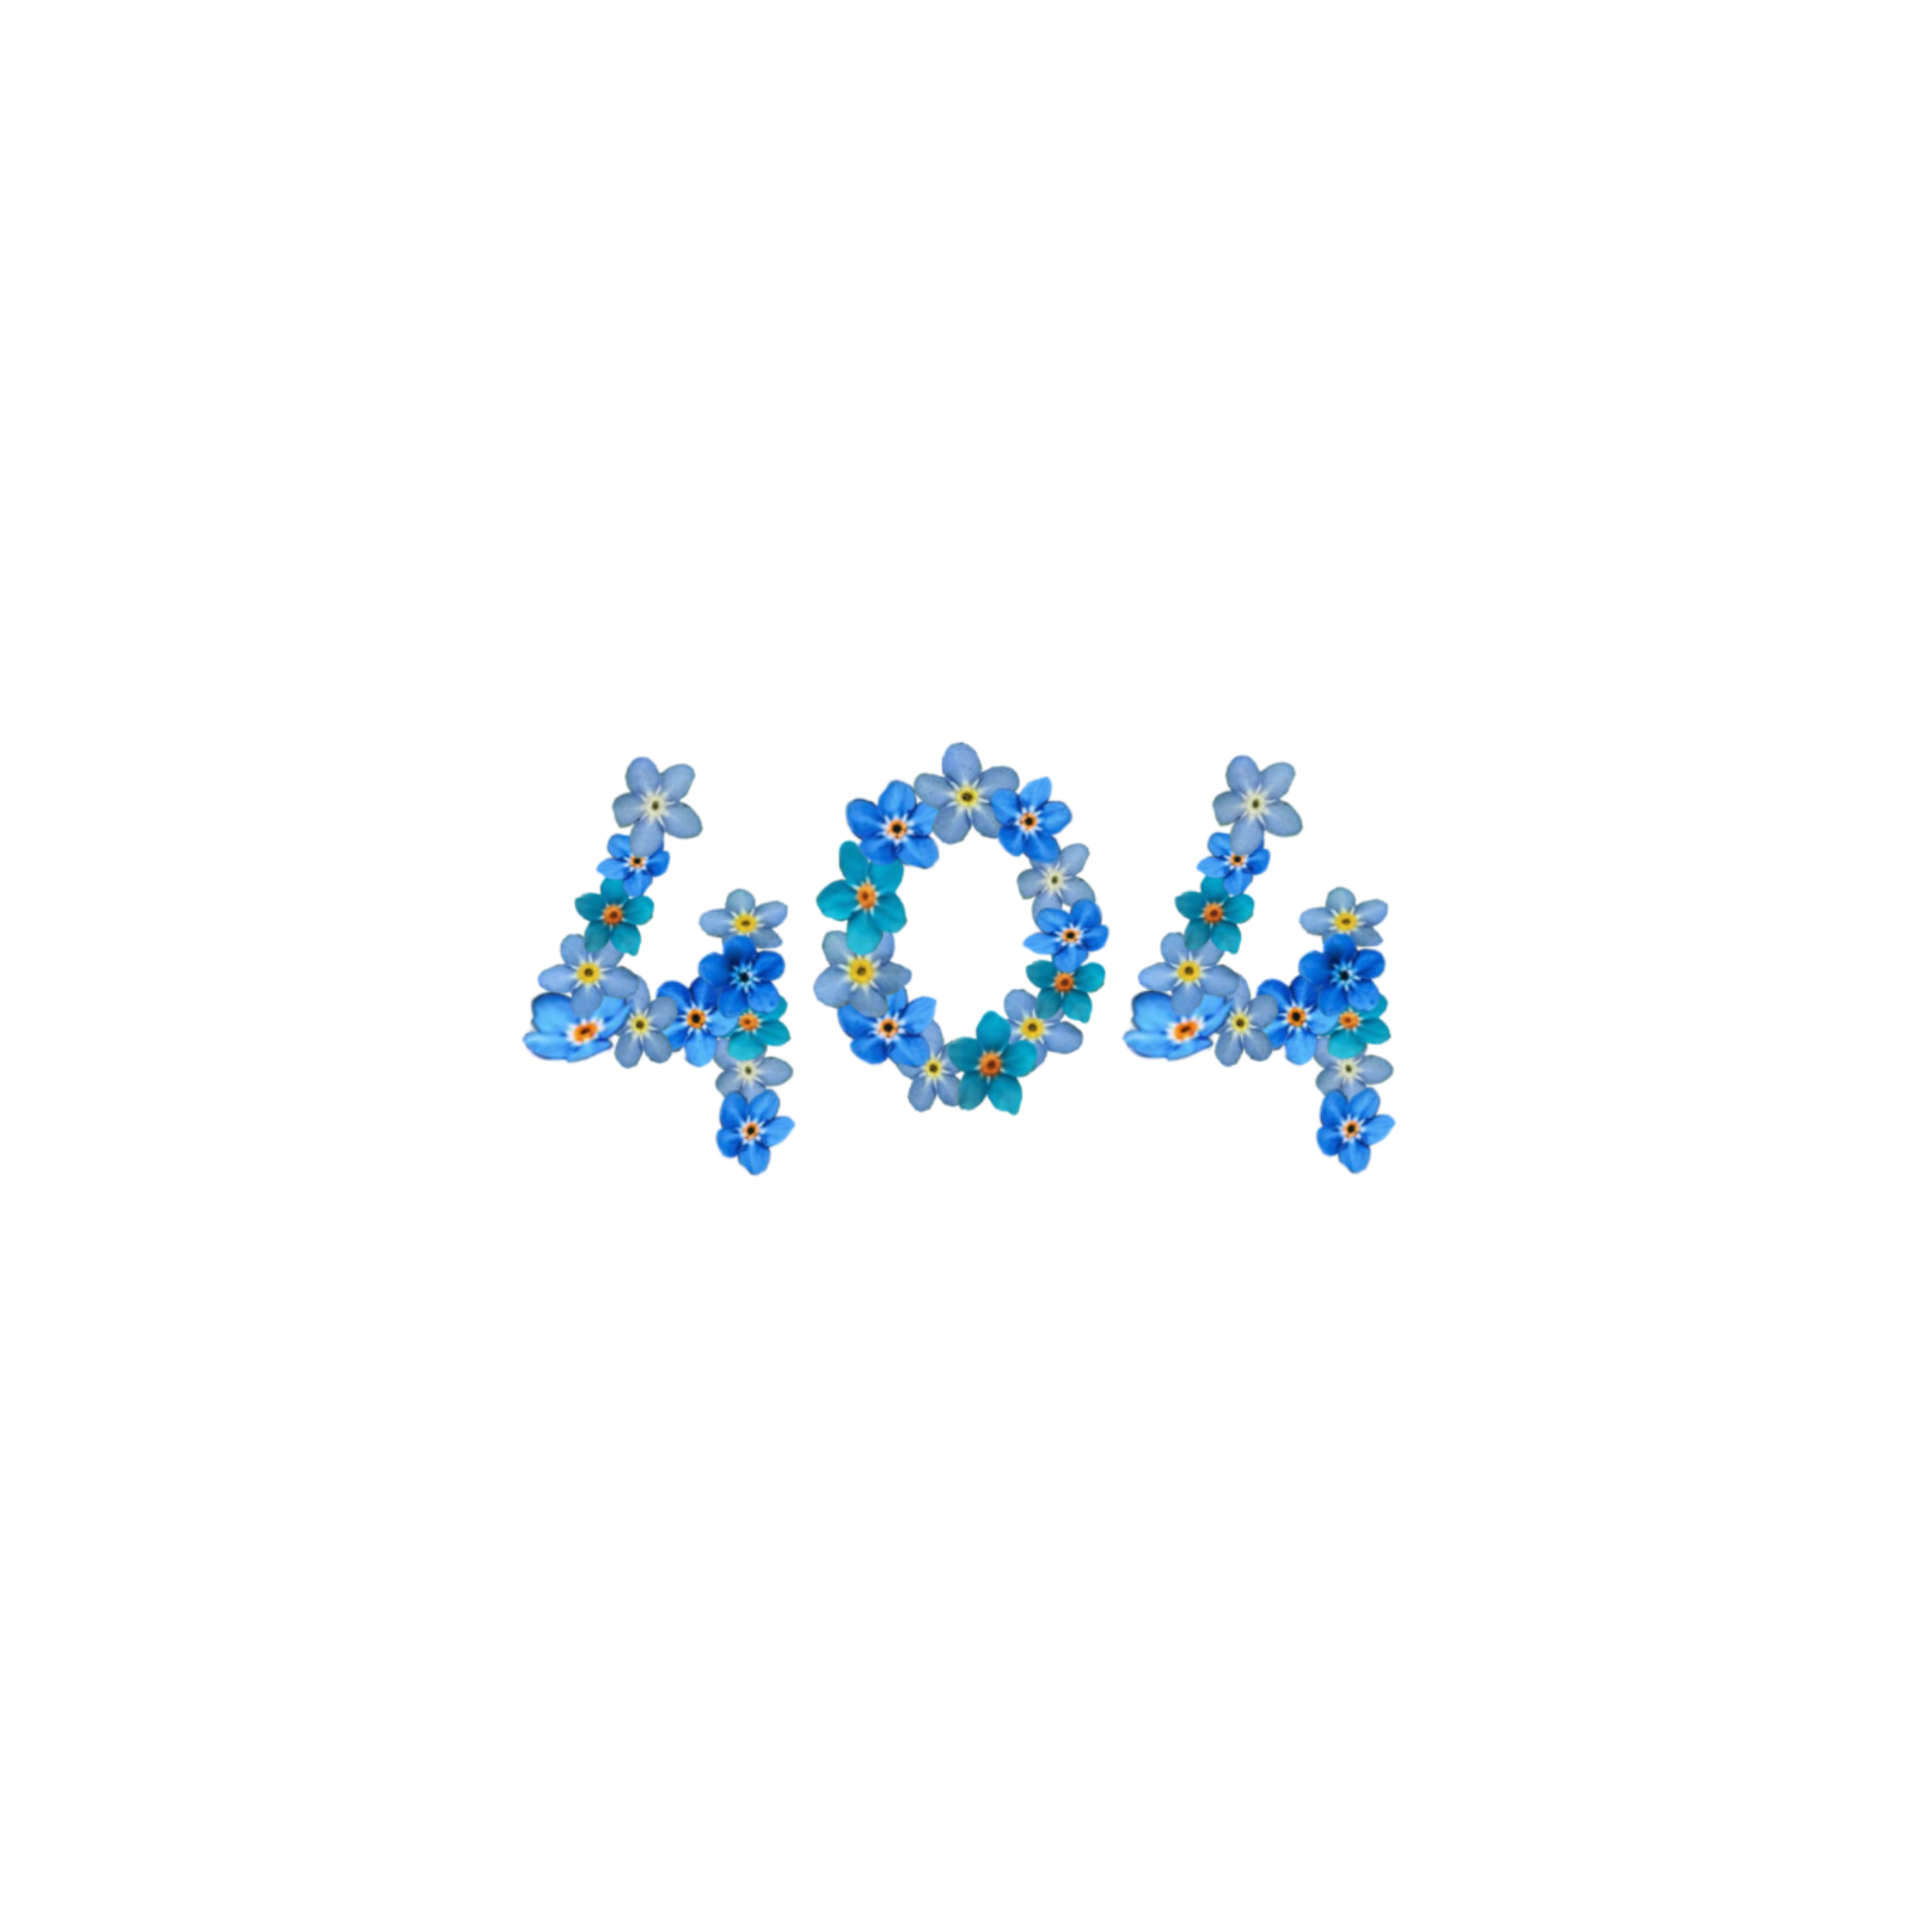
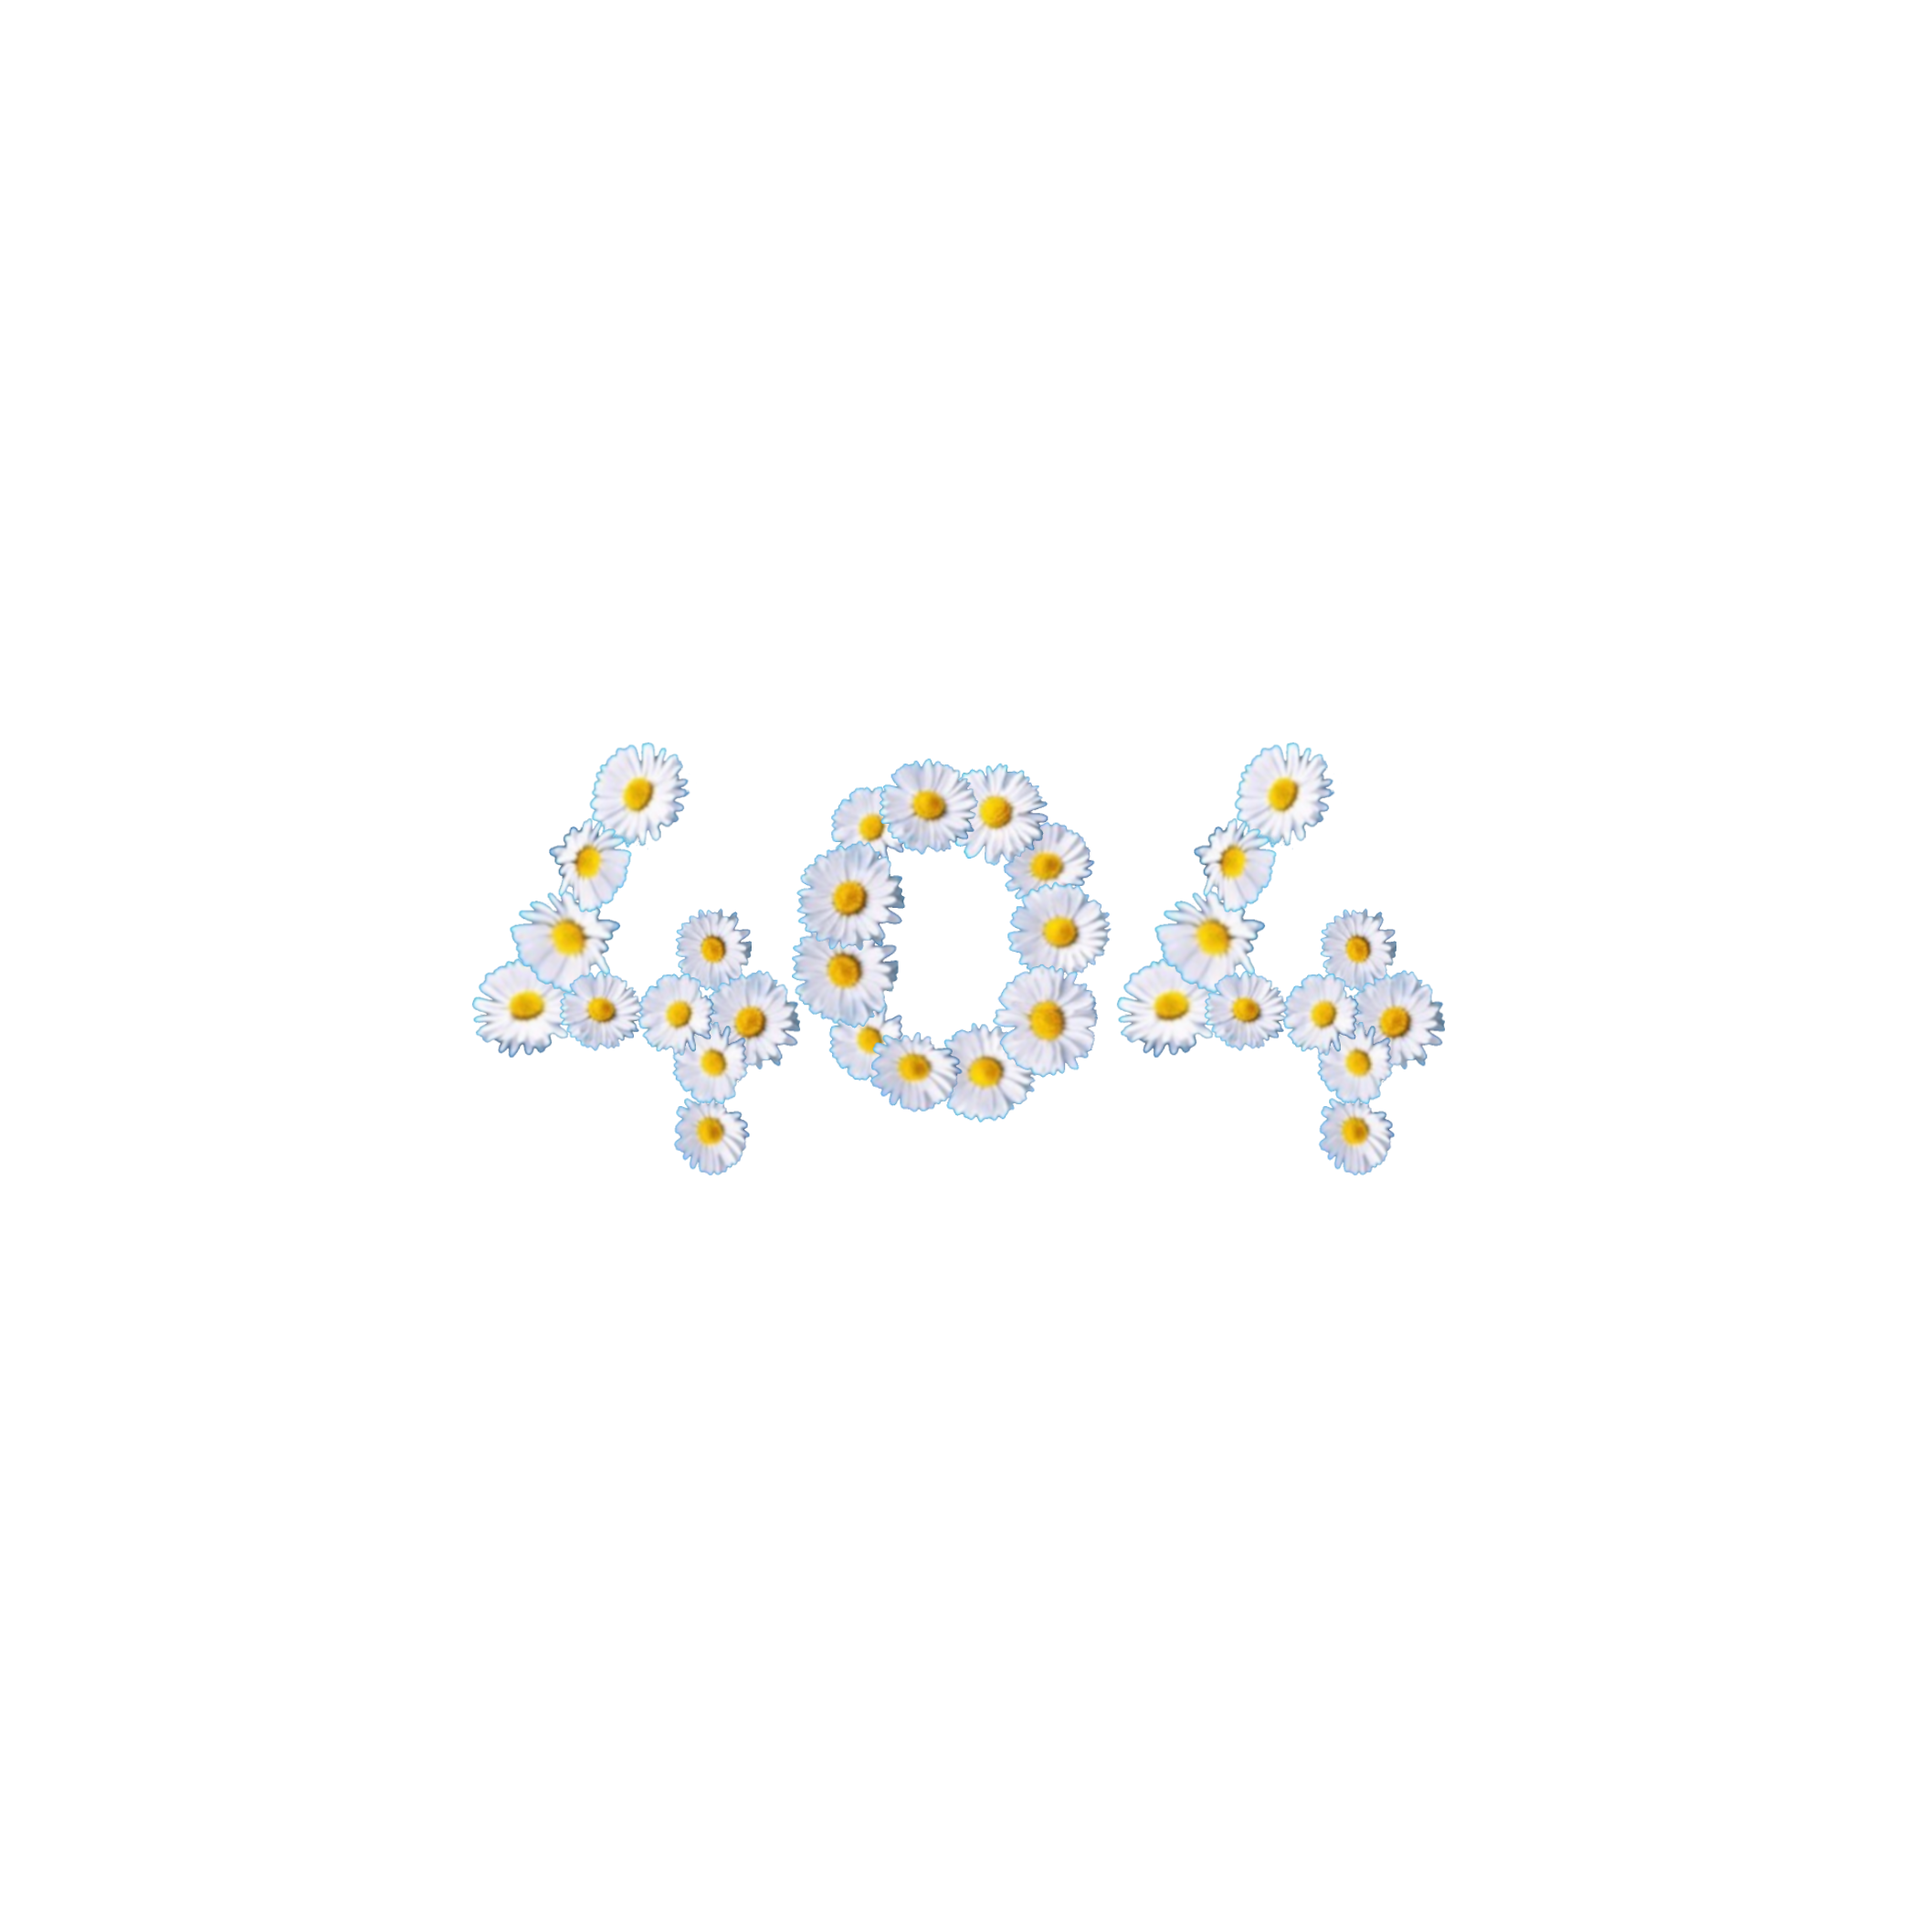
more css adjustment

Changed region(s): [[0.2476, 0.3714, 0.7738, 0.619]]

diff --git a/book-guide/frontend/src/components/ReviewCard/index.jsx b/book-guide/frontend/src/components/ReviewCard/index.jsx
@@ -2,45 +2,37 @@
 
 export default function ReviewCard({ reviewData }) {
   return (
-    <>
-      <div className="">
-        <div className="ui three column grid">        
-          <div className="column">
-            <div className="ui fluid card">
-              <div className="card">
-                <div className="content">
-                  <br />
-                  <div className="center aligned header">
-                    <h4>{reviewData.book_author}</h4>
-                  </div>
-                  <br />
+    <>      
+      <div className="ui fluid card">        
+        <div className="content">
+          <br />
+          <div className="center aligned header">
+            <h4>{reviewData.book_author}</h4>
+          </div>
+          <br />
+        </div>
+        <div className="content">
+          <h4 className="ui horizontal divider header">" {reviewData.book_title} "</h4>
+          <div className="ui small feed">
+            <div className="event">
+              <div className="content">
+                <div className="center aligned summary">
+                  <h4>Summary: {reviewData.summary}</h4>
                 </div>
-                <div className="content">
-                  <h4 className="ui horizontal divider header">" {reviewData.book_title} "</h4>
-                  <div className="ui small feed">
-                    <div className="event">
-                      <div className="content">
-                        <div className="center aligned summary">
-                          <h4>Summary: {reviewData.summary}</h4>
-                        </div>
-                        <br />
-                      </div>
-                    </div>
-                    <div className="event">
-                      <div className="content">
-                        <div className="center aligned summary">
-                          <h4><a href={reviewData.url}>NYT Review Link</a></h4>
-                        </div>
-                        <br />
-                      </div>
-                    </div>
-                  </div>          
-                </div>
+                <br />
               </div>
             </div>
-          </div>
-        </div>
-      </div>
+            <div className="event">
+              <div className="content">
+                <div className="center aligned summary">
+                  <h4><a href={reviewData.url}>NYT Review Link</a></h4>
+                </div>
+                <br />
+              </div>
+            </div>
+          </div>          
+        </div>        
+      </div>          
     </>
   )
 }

diff --git a/book-guide/frontend/src/components/NotFoundPage/index.jsx b/book-guide/frontend/src/components/NotFoundPage/index.jsx
@@ -4,22 +4,13 @@ import { Link } from "react-router-dom"
 export default function NotFoundPage() {
   return (
     <>
-      <div>
-        <br />
-        <br />
-        <br />
-        <br />
-        <br />
-        <div className="gallery">
-          <h1>404</h1>
-        </div>
+      <div className="notfound">
         <br />
         <br />
         <br />
         <div className="gallery">
           <h1>Page Not Found</h1>
         </div>
-        <br />
         <br />
         <br />
         <div className="gallery">

diff --git a/book-guide/frontend/src/components/SearchPage/index.jsx b/book-guide/frontend/src/components/SearchPage/index.jsx
@@ -62,9 +62,9 @@ export default function SearchPage(props) {
         </form> 
       </div>
       <br />
-      <br />
-      <div className="">
-        <div className="ui container">
+      <br />      
+      <div className="ui container">
+        <div className="">
           {reviewContent}
         </div>        
       </div>

diff --git a/book-guide/README.md b/book-guide/README.md
@@ -16,6 +16,7 @@ Readers can also use the Reviews link to see the books reviewed by The New York 
   - React
   - Node.js
   - SemanticUI
+  - Adobe Fresco
 
 4. Installation instructions
   - Fork this repository
@@ -36,7 +37,6 @@ Readers can also use the Reviews link to see the books reviewed by The New York 
 
 7. Unsolved problems or major hurdles
   - Trying to style components imported into other components has been difficult.
-  - I couldn't get the 404 background image positioned the way I wanted so I removed it.
 
 8. Next Steps
   - I think I would remove Semantic UI and use Tailwind for styling and use Adobe Fresco to redesign the background image.
